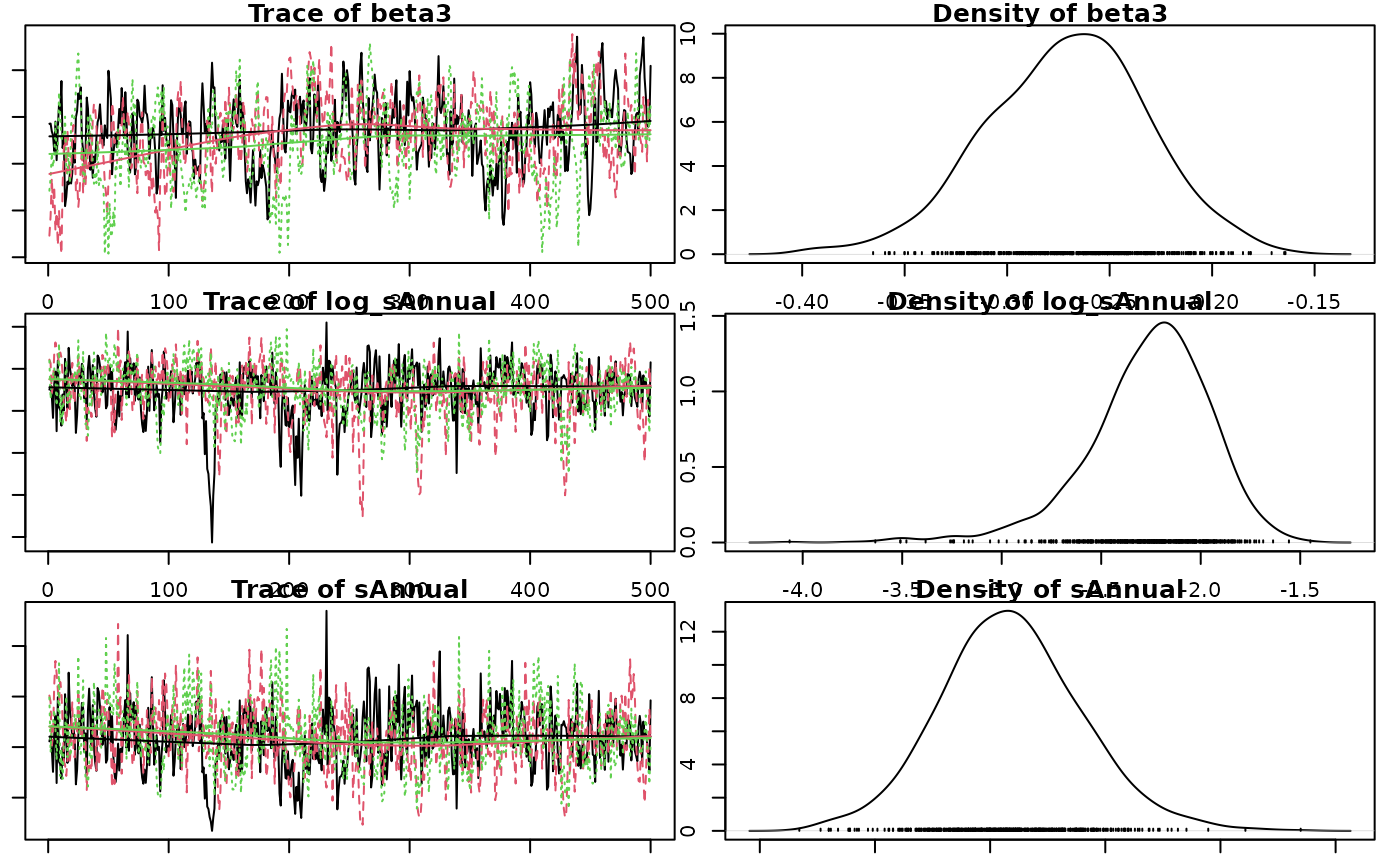
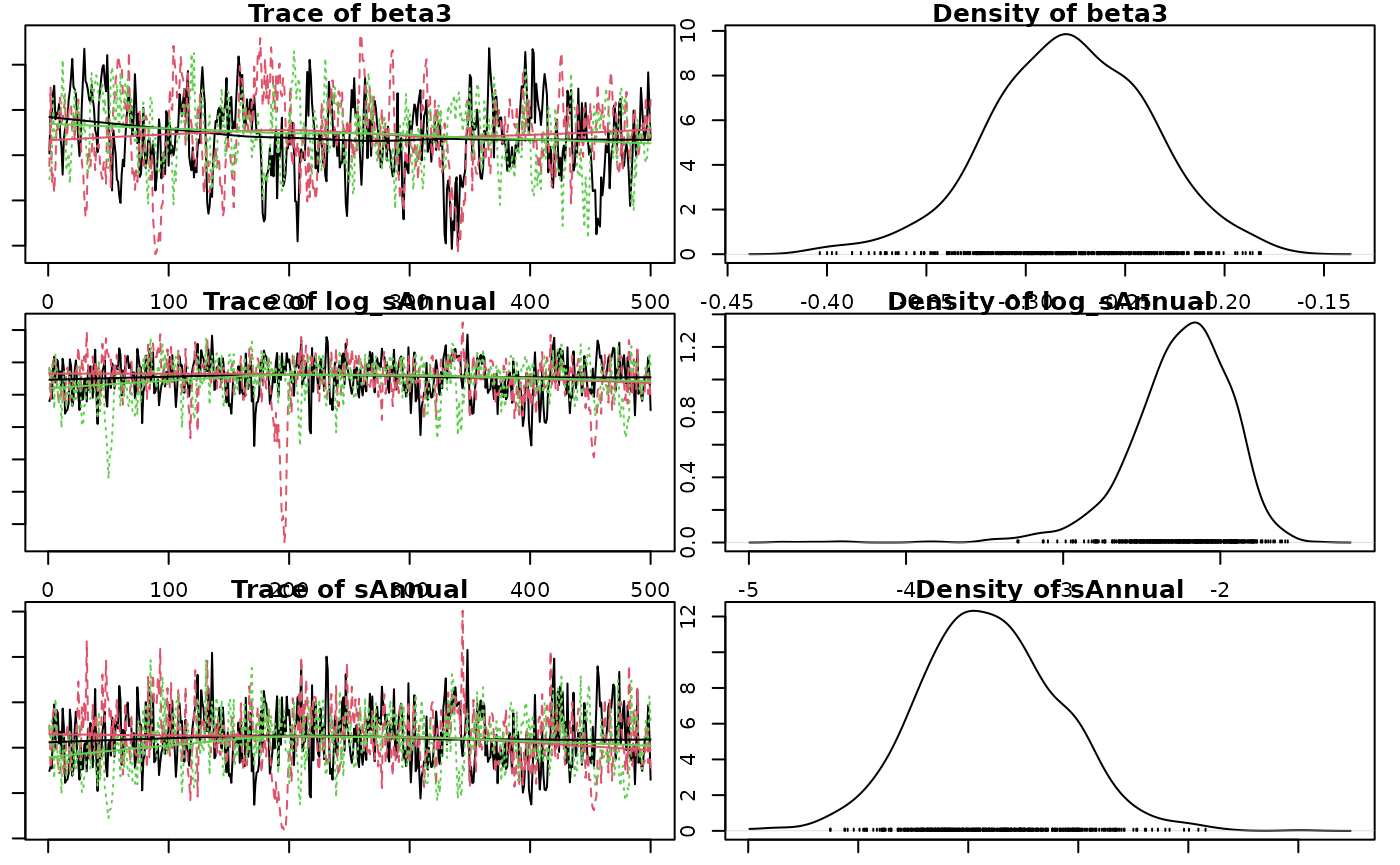
Built site for jmbr@0.0.0.9132: 61a585c

diff --git a/articles/jmbr.html b/articles/jmbr.html
@@ -32,7 +32,7 @@
       </button>
       <span class="navbar-brand">
         <a class="navbar-link" href="../index.html">jmbr</a>
-        <span class="version label label-default" data-toggle="tooltip" data-placement="bottom" title="">0.0.0.9131</span>
+        <span class="version label label-default" data-toggle="tooltip" data-placement="bottom" title="">0.0.0.9132</span>
       </span>
     </div>
 
@@ -302,14 +302,14 @@ value and discarding all other values.</p>
 <span><span class="co">#&gt; <span style="color: #949494;"># A tibble: 1 × 8</span></span></span>
 <span><span class="co">#&gt;       n     K nchains niters nthin   ess  rhat converged</span></span>
 <span><span class="co">#&gt;   <span style="color: #949494; font-style: italic;">&lt;int&gt;</span> <span style="color: #949494; font-style: italic;">&lt;int&gt;</span>   <span style="color: #949494; font-style: italic;">&lt;int&gt;</span>  <span style="color: #949494; font-style: italic;">&lt;int&gt;</span> <span style="color: #949494; font-style: italic;">&lt;int&gt;</span> <span style="color: #949494; font-style: italic;">&lt;int&gt;</span> <span style="color: #949494; font-style: italic;">&lt;dbl&gt;</span> <span style="color: #949494; font-style: italic;">&lt;lgl&gt;</span>    </span></span>
-<span><span class="co">#&gt; <span style="color: #BCBCBC;">1</span>    40     6       3    500    10   190  1.02 TRUE</span></span>
+<span><span class="co">#&gt; <span style="color: #BCBCBC;">1</span>    40     6       3    500    10   234  1.00 TRUE</span></span>
 <span><span class="co">#&gt; Warning in value[[3L]](cond): beep() could not play the sound due to the following error:</span></span>
 <span><span class="co">#&gt; Error in play.default(x, rate, ...): no audio drivers are available</span></span>
 <span><span class="va">analysis</span> <span class="op">&lt;-</span> <span class="fu"><a href="https://rdrr.io/pkg/embr/man/reanalyse.html" class="external-link">reanalyse</a></span><span class="op">(</span><span class="va">analysis</span><span class="op">)</span></span>
 <span><span class="co">#&gt; <span style="color: #949494;"># A tibble: 1 × 8</span></span></span>
 <span><span class="co">#&gt;       n     K nchains niters nthin   ess  rhat converged</span></span>
 <span><span class="co">#&gt;   <span style="color: #949494; font-style: italic;">&lt;int&gt;</span> <span style="color: #949494; font-style: italic;">&lt;int&gt;</span>   <span style="color: #949494; font-style: italic;">&lt;int&gt;</span>  <span style="color: #949494; font-style: italic;">&lt;int&gt;</span> <span style="color: #949494; font-style: italic;">&lt;int&gt;</span> <span style="color: #949494; font-style: italic;">&lt;int&gt;</span> <span style="color: #949494; font-style: italic;">&lt;dbl&gt;</span> <span style="color: #949494; font-style: italic;">&lt;lgl&gt;</span>    </span></span>
-<span><span class="co">#&gt; <span style="color: #BCBCBC;">1</span>    40     6       3    500    10   190  1.02 TRUE</span></span>
+<span><span class="co">#&gt; <span style="color: #BCBCBC;">1</span>    40     6       3    500    10   234  1.00 TRUE</span></span>
 <span><span class="co">#&gt; Warning in value[[3L]](cond): beep() could not play the sound due to the following error:</span></span>
 <span><span class="co">#&gt; Error in play.default(x, rate, ...): no audio drivers are available</span></span></code></pre></div>
 <p><strong>Analysis Table:</strong></p>
@@ -359,12 +359,12 @@ between- and within-chain estimates for model parameters.
 <span><span class="co">#&gt; <span style="color: #949494;"># A tibble: 6 × 7</span></span></span>
 <span><span class="co">#&gt;   term        estimate     sd  zscore   lower   upper   pvalue</span></span>
 <span><span class="co">#&gt;   <span style="color: #949494; font-style: italic;">&lt;term&gt;</span>         <span style="color: #949494; font-style: italic;">&lt;dbl&gt;</span>  <span style="color: #949494; font-style: italic;">&lt;dbl&gt;</span>   <span style="color: #949494; font-style: italic;">&lt;dbl&gt;</span>   <span style="color: #949494; font-style: italic;">&lt;dbl&gt;</span>   <span style="color: #949494; font-style: italic;">&lt;dbl&gt;</span>    <span style="color: #949494; font-style: italic;">&lt;dbl&gt;</span></span></span>
-<span><span class="co">#&gt; <span style="color: #BCBCBC;">1</span> alpha         4.26   0.041<span style="text-decoration: underline;">2</span> 103.     4.18    4.34   0.000<span style="text-decoration: underline;">666</span></span></span>
-<span><span class="co">#&gt; <span style="color: #BCBCBC;">2</span> beta1         1.18   0.075<span style="text-decoration: underline;">3</span>  15.8    1.05    1.34   0.000<span style="text-decoration: underline;">666</span></span></span>
-<span><span class="co">#&gt; <span style="color: #BCBCBC;">3</span> beta2        -<span style="color: #BB0000;">0.017</span><span style="color: #BB0000; text-decoration: underline;">9</span> 0.031<span style="text-decoration: underline;">2</span>  -<span style="color: #BB0000;">0.579</span> -<span style="color: #BB0000;">0.082</span><span style="color: #BB0000; text-decoration: underline;">1</span>  0.043<span style="text-decoration: underline;">1</span> 0.570   </span></span>
-<span><span class="co">#&gt; <span style="color: #BCBCBC;">4</span> beta3        -<span style="color: #BB0000;">0.269</span>  0.039<span style="text-decoration: underline;">4</span>  -<span style="color: #BB0000;">6.88</span>  -<span style="color: #BB0000;">0.352</span>  -<span style="color: #BB0000;">0.196</span>  0.000<span style="text-decoration: underline;">666</span></span></span>
-<span><span class="co">#&gt; <span style="color: #BCBCBC;">5</span> log_sAnnual  -<span style="color: #BB0000;">2.22</span>   0.314   -<span style="color: #BB0000;">7.19</span>  -<span style="color: #BB0000;">2.99</span>   -<span style="color: #BB0000;">1.76</span>   0.000<span style="text-decoration: underline;">666</span></span></span>
-<span><span class="co">#&gt; <span style="color: #BCBCBC;">6</span> sAnnual       0.108  0.030<span style="text-decoration: underline;">9</span>   3.52   0.050<span style="text-decoration: underline;">4</span>  0.173  0.000<span style="text-decoration: underline;">666</span></span></span></code></pre></div>
+<span><span class="co">#&gt; <span style="color: #BCBCBC;">1</span> alpha         4.26   0.040<span style="text-decoration: underline;">6</span> 105.     4.18    4.34   0.000<span style="text-decoration: underline;">666</span></span></span>
+<span><span class="co">#&gt; <span style="color: #BCBCBC;">2</span> beta1         1.21   0.078<span style="text-decoration: underline;">1</span>  15.4    1.05    1.37   0.000<span style="text-decoration: underline;">666</span></span></span>
+<span><span class="co">#&gt; <span style="color: #BCBCBC;">3</span> beta2        -<span style="color: #BB0000;">0.018</span><span style="color: #BB0000; text-decoration: underline;">1</span> 0.030<span style="text-decoration: underline;">4</span>  -<span style="color: #BB0000;">0.593</span> -<span style="color: #BB0000;">0.076</span><span style="color: #BB0000; text-decoration: underline;">2</span>  0.040<span style="text-decoration: underline;">5</span> 0.522   </span></span>
+<span><span class="co">#&gt; <span style="color: #BCBCBC;">4</span> beta3        -<span style="color: #BB0000;">0.278</span>  0.040<span style="text-decoration: underline;">2</span>  -<span style="color: #BB0000;">6.92</span>  -<span style="color: #BB0000;">0.361</span>  -<span style="color: #BB0000;">0.201</span>  0.000<span style="text-decoration: underline;">666</span></span></span>
+<span><span class="co">#&gt; <span style="color: #BCBCBC;">5</span> log_sAnnual  -<span style="color: #BB0000;">2.21</span>   0.332   -<span style="color: #BB0000;">6.79</span>  -<span style="color: #BB0000;">2.99</span>   -<span style="color: #BB0000;">1.75</span>   0.000<span style="text-decoration: underline;">666</span></span></span>
+<span><span class="co">#&gt; <span style="color: #BCBCBC;">6</span> sAnnual       0.109  0.031<span style="text-decoration: underline;">8</span>   3.46   0.050<span style="text-decoration: underline;">4</span>  0.173  0.000<span style="text-decoration: underline;">666</span></span></span></code></pre></div>
 <p>The estimate is the <strong>median</strong> by default.</p>
 <p>The zscore is
 <math display="inline" xmlns="http://www.w3.org/1998/Math/MathML"><semantics><mrow><mi>m</mi><mi>e</mi><mi>a</mi><mi>n</mi><mi>/</mi><mi>s</mi><mi>d</mi></mrow><annotation encoding="application/x-tex">mean / sd</annotation></semantics></math>.</p>
@@ -374,11 +374,11 @@ between- and within-chain estimates for model parameters.
 <span><span class="co">#&gt;   term        estimate   lower   upper svalue</span></span>
 <span><span class="co">#&gt;   <span style="color: #949494; font-style: italic;">&lt;term&gt;</span>         <span style="color: #949494; font-style: italic;">&lt;dbl&gt;</span>   <span style="color: #949494; font-style: italic;">&lt;dbl&gt;</span>   <span style="color: #949494; font-style: italic;">&lt;dbl&gt;</span>  <span style="color: #949494; font-style: italic;">&lt;dbl&gt;</span></span></span>
 <span><span class="co">#&gt; <span style="color: #BCBCBC;">1</span> alpha         4.26    4.18    4.34   10.6  </span></span>
-<span><span class="co">#&gt; <span style="color: #BCBCBC;">2</span> beta1         1.18    1.05    1.34   10.6  </span></span>
-<span><span class="co">#&gt; <span style="color: #BCBCBC;">3</span> beta2        -<span style="color: #BB0000;">0.017</span><span style="color: #BB0000; text-decoration: underline;">9</span> -<span style="color: #BB0000;">0.082</span><span style="color: #BB0000; text-decoration: underline;">1</span>  0.043<span style="text-decoration: underline;">1</span>  0.812</span></span>
-<span><span class="co">#&gt; <span style="color: #BCBCBC;">4</span> beta3        -<span style="color: #BB0000;">0.269</span>  -<span style="color: #BB0000;">0.352</span>  -<span style="color: #BB0000;">0.196</span>  10.6  </span></span>
-<span><span class="co">#&gt; <span style="color: #BCBCBC;">5</span> log_sAnnual  -<span style="color: #BB0000;">2.22</span>   -<span style="color: #BB0000;">2.99</span>   -<span style="color: #BB0000;">1.76</span>   10.6  </span></span>
-<span><span class="co">#&gt; <span style="color: #BCBCBC;">6</span> sAnnual       0.108   0.050<span style="text-decoration: underline;">4</span>  0.173  10.6</span></span></code></pre></div>
+<span><span class="co">#&gt; <span style="color: #BCBCBC;">2</span> beta1         1.21    1.05    1.37   10.6  </span></span>
+<span><span class="co">#&gt; <span style="color: #BCBCBC;">3</span> beta2        -<span style="color: #BB0000;">0.018</span><span style="color: #BB0000; text-decoration: underline;">1</span> -<span style="color: #BB0000;">0.076</span><span style="color: #BB0000; text-decoration: underline;">2</span>  0.040<span style="text-decoration: underline;">5</span>  0.939</span></span>
+<span><span class="co">#&gt; <span style="color: #BCBCBC;">4</span> beta3        -<span style="color: #BB0000;">0.278</span>  -<span style="color: #BB0000;">0.361</span>  -<span style="color: #BB0000;">0.201</span>  10.6  </span></span>
+<span><span class="co">#&gt; <span style="color: #BCBCBC;">5</span> log_sAnnual  -<span style="color: #BB0000;">2.21</span>   -<span style="color: #BB0000;">2.99</span>   -<span style="color: #BB0000;">1.75</span>   10.6  </span></span>
+<span><span class="co">#&gt; <span style="color: #BCBCBC;">6</span> sAnnual       0.109   0.050<span style="text-decoration: underline;">4</span>  0.173  10.6</span></span></code></pre></div>
 <p>The s-value is the <strong>suprisal</strong> value, which is a
 measure of directionality with respect to zero.</p>
 <p>The s-value is zero (unsurprising) when <em>p-value</em> = 1.0 and

diff --git a/news/index.html b/news/index.html
@@ -17,7 +17,7 @@
       </button>
       <span class="navbar-brand">
         <a class="navbar-link" href="../index.html">jmbr</a>
-        <span class="version label label-default" data-toggle="tooltip" data-placement="bottom" title="">0.0.0.9131</span>
+        <span class="version label label-default" data-toggle="tooltip" data-placement="bottom" title="">0.0.0.9132</span>
       </span>
     </div>
 
@@ -50,6 +50,13 @@
       <small>Source: <a href="https://github.com/poissonconsulting/jmbr/blob/main/NEWS.md" class="external-link"><code>NEWS.md</code></a></small>
     </div>
 
+    <div class="section level2">
+<h2 class="page-header" data-toc-text="0.0.0.9132" id="jmbr-0009132-2025-01-07">jmbr 0.0.0.9132 (2025-01-07)<a class="anchor" aria-label="anchor" href="#jmbr-0009132-2025-01-07"></a></h2>
+<div class="section level3">
+<h3 id="continuous-integration-0-0-0-9132">Continuous integration<a class="anchor" aria-label="anchor" href="#continuous-integration-0-0-0-9132"></a></h3>
+<ul><li>Check if rjags can be loaded (<a href="https://github.com/poissonconsulting/jmbr/issues/43" class="external-link">#43</a>).</li>
+</ul></div>
+</div>
     <div class="section level2">
 <h2 class="page-header" data-toc-text="0.0.0.9131" id="jmbr-0009131-2024-12-22">jmbr 0.0.0.9131 (2024-12-22)<a class="anchor" aria-label="anchor" href="#jmbr-0009131-2024-12-22"></a></h2>
 <ul><li>Updated to testthat3 (<a href="https://github.com/poissonconsulting/jmbr/issues/40" class="external-link">#40</a>).</li>

diff --git a/articles/index.html b/articles/index.html
@@ -17,7 +17,7 @@
       </button>
       <span class="navbar-brand">
         <a class="navbar-link" href="../index.html">jmbr</a>
-        <span class="version label label-default" data-toggle="tooltip" data-placement="bottom" title="">0.0.0.9131</span>
+        <span class="version label label-default" data-toggle="tooltip" data-placement="bottom" title="">0.0.0.9132</span>
       </span>
     </div>
 

diff --git a/reference/index.html b/reference/index.html
@@ -17,7 +17,7 @@
       </button>
       <span class="navbar-brand">
         <a class="navbar-link" href="../index.html">jmbr</a>
-        <span class="version label label-default" data-toggle="tooltip" data-placement="bottom" title="">0.0.0.9131</span>
+        <span class="version label label-default" data-toggle="tooltip" data-placement="bottom" title="">0.0.0.9132</span>
       </span>
     </div>
 

diff --git a/reference/is.jmb_analysis.html b/reference/is.jmb_analysis.html
@@ -17,7 +17,7 @@
       </button>
       <span class="navbar-brand">
         <a class="navbar-link" href="../index.html">jmbr</a>
-        <span class="version label label-default" data-toggle="tooltip" data-placement="bottom" title="">0.0.0.9131</span>
+        <span class="version label label-default" data-toggle="tooltip" data-placement="bottom" title="">0.0.0.9132</span>
       </span>
     </div>
 

diff --git a/reference/is.jmb_code.html b/reference/is.jmb_code.html
@@ -17,7 +17,7 @@
       </button>
       <span class="navbar-brand">
         <a class="navbar-link" href="../index.html">jmbr</a>
-        <span class="version label label-default" data-toggle="tooltip" data-placement="bottom" title="">0.0.0.9131</span>
+        <span class="version label label-default" data-toggle="tooltip" data-placement="bottom" title="">0.0.0.9132</span>
       </span>
     </div>
 

diff --git a/reference/is.jmb_model.html b/reference/is.jmb_model.html
@@ -17,7 +17,7 @@
       </button>
       <span class="navbar-brand">
         <a class="navbar-link" href="../index.html">jmbr</a>
-        <span class="version label label-default" data-toggle="tooltip" data-placement="bottom" title="">0.0.0.9131</span>
+        <span class="version label label-default" data-toggle="tooltip" data-placement="bottom" title="">0.0.0.9132</span>
       </span>
     </div>
 

diff --git a/reference/jmbr-package.html b/reference/jmbr-package.html
@@ -17,7 +17,7 @@
       </button>
       <span class="navbar-brand">
         <a class="navbar-link" href="../index.html">jmbr</a>
-        <span class="version label label-default" data-toggle="tooltip" data-placement="bottom" title="">0.0.0.9131</span>
+        <span class="version label label-default" data-toggle="tooltip" data-placement="bottom" title="">0.0.0.9132</span>
       </span>
     </div>
 

diff --git a/404.html b/404.html
@@ -32,7 +32,7 @@
       </button>
       <span class="navbar-brand">
         <a class="navbar-link" href="index.html">jmbr</a>
-        <span class="version label label-default" data-toggle="tooltip" data-placement="bottom" title="">0.0.0.9131</span>
+        <span class="version label label-default" data-toggle="tooltip" data-placement="bottom" title="">0.0.0.9132</span>
       </span>
     </div>
 

diff --git a/CODE_OF_CONDUCT.html b/CODE_OF_CONDUCT.html
@@ -17,7 +17,7 @@
       </button>
       <span class="navbar-brand">
         <a class="navbar-link" href="index.html">jmbr</a>
-        <span class="version label label-default" data-toggle="tooltip" data-placement="bottom" title="">0.0.0.9131</span>
+        <span class="version label label-default" data-toggle="tooltip" data-placement="bottom" title="">0.0.0.9132</span>
       </span>
     </div>
 

diff --git a/CONTRIBUTING.html b/CONTRIBUTING.html
@@ -17,7 +17,7 @@
       </button>
       <span class="navbar-brand">
         <a class="navbar-link" href="index.html">jmbr</a>
-        <span class="version label label-default" data-toggle="tooltip" data-placement="bottom" title="">0.0.0.9131</span>
+        <span class="version label label-default" data-toggle="tooltip" data-placement="bottom" title="">0.0.0.9132</span>
       </span>
     </div>
 

diff --git a/LICENSE-text.html b/LICENSE-text.html
@@ -17,7 +17,7 @@
       </button>
       <span class="navbar-brand">
         <a class="navbar-link" href="index.html">jmbr</a>
-        <span class="version label label-default" data-toggle="tooltip" data-placement="bottom" title="">0.0.0.9131</span>
+        <span class="version label label-default" data-toggle="tooltip" data-placement="bottom" title="">0.0.0.9132</span>
       </span>
     </div>
 
